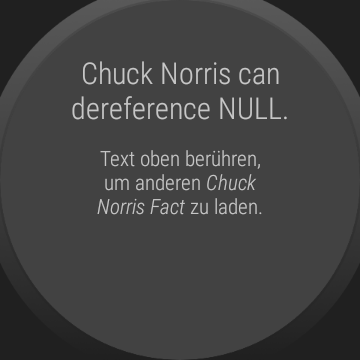
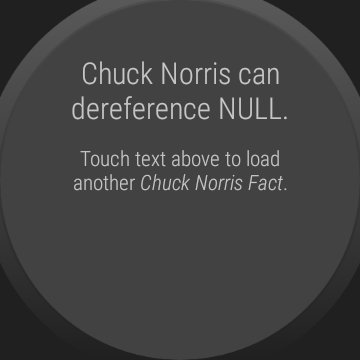
UI unterstuetzt jetzt Englisch und Deutsch.

Changed region(s): [[0.1833, 0.3972, 0.7944, 0.6111]]

diff --git a/app/src/main/java/de/mide/wear/chucknorrisfacts/MainActivity.java b/app/src/main/java/de/mide/wear/chucknorrisfacts/MainActivity.java
@@ -137,23 +137,23 @@ public class MainActivity extends WearableActivity
 
             _ladevorgangLaueft = true;
 
-            zeigeTextInMainThread("Lade ...");
+
+            zeigeTextInMainThread( getString(R.string.loading ));
 
             String ergebnisStr = holeWitz();
             if (ergebnisStr.length() > 0) {
 
                 try {
                     String witz = extrahiereWitzAusJson(ergebnisStr);
-                    zeigeTextInMainThread(witz);
+                    zeigeTextInMainThread( witz );
                 }
                 catch (JSONException ex) {
                     Log.e(TAG4LOGGING, "Fehler beim Parsen des JSON-Strings: " + ex.getMessage());
-                    zeigeTextInMainThread("Fehler: " + ex.getMessage());
+                    zeigeTextInMainThread( getString(R.string.error) + ex.getMessage() );
                 }
 
             } else {
-
-                Log.w(TAG4LOGGING, "Lehrer String als JSON-Antwort von Methode holeWitz() erhalten.");
+                Log.w(TAG4LOGGING, "Leerer String als JSON-Antwort von Methode holeWitz() erhalten.");
             }
         }
     };
@@ -176,11 +176,11 @@ public class MainActivity extends WearableActivity
         try {
             URL url = new URL("http://api.icndb.com/jokes/random?limitTo=[nerdy]");
             conn = (HttpURLConnection)url.openConnection();
-            //conn.setRequestMethod("GET"); // Default
+            conn.setRequestMethod("GET"); // Eigentlich nicht nötig, weil "GET" Default-Wert ist.
 
             if (conn.getResponseCode() != HttpURLConnection.HTTP_OK) {
 
-                zeigeTextInMainThread("HTTP-Fehler: " + conn.getResponseMessage());
+                zeigeTextInMainThread( getString(R.string.http_error) + conn.getResponseMessage() );
 
             } else {
 
@@ -196,7 +196,7 @@ public class MainActivity extends WearableActivity
         }
         catch (Exception ex) {
             Log.e(TAG4LOGGING, "Fehler beim HTTP-Zugriff: " + ex.getMessage());
-            zeigeTextInMainThread("Fehler: " + ex.getMessage());
+            zeigeTextInMainThread( getString(R.string.error) + ex.getMessage() );
         }
         finally {
             if (conn != null) { conn.disconnect(); }
@@ -224,9 +224,9 @@ public class MainActivity extends WearableActivity
         JSONObject mainObjekt = new JSONObject(jsonString);
 
         String typeString = mainObjekt.getString("type");
+
         if (typeString.equalsIgnoreCase("success") == false) {
-            return "Status in Ergebnis-Dokument war nicht \"success\" sondern \"" +
-                    typeString + "\".";
+            throw new JSONException( getString( R.string.status_not_success) + typeString );
         }
 
         // Unterobjekt mit dem eigentlichen Witz holen.

diff --git a/README.md b/README.md
@@ -2,10 +2,17 @@
 
 Android-Studio-Project for a WearOS-App that fetches so called [*Chuck Norris Facts*](https://en.wikipedia.org/wiki/Chuck_Norris_facts) from the Web-API provided by
 [*icndb.com (Internet Chuck Norris Database)*](http://www.icndb.com/api/).
-The *Chuck Norris Facts* are in English, but the other display texts and the documentation of the source code are in German.
 
 
 The author of this app is neither related to Chuck Norris nor to the developer/provider of [*icndb.com*](http://www.icndb.com).
+
+----
+## Supported Languages
+
+The *Chuck Norris Facts* and the display texts are available in English and German.
+
+The JavaDoc comments and the names of most variables are German only. Further, the log messages
+written using [*android.util.Log*](https://developer.android.com/reference/android/util/Log) are also in German.
 
 
 ----
